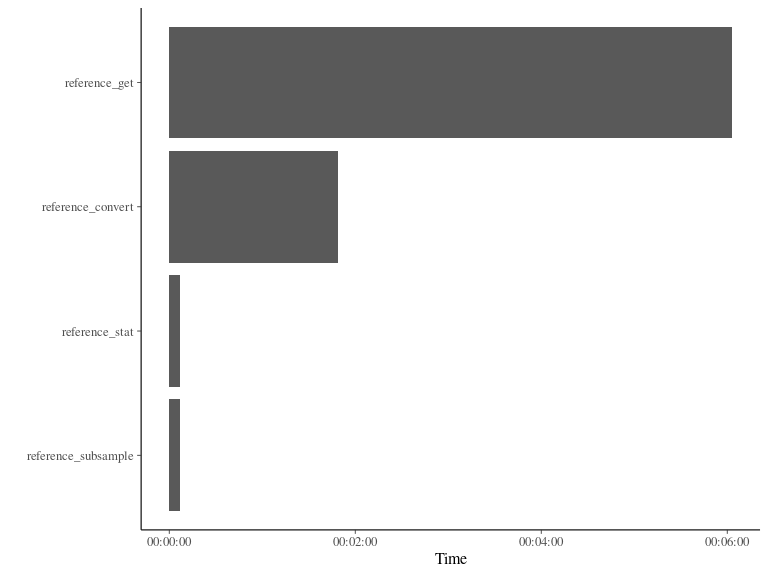
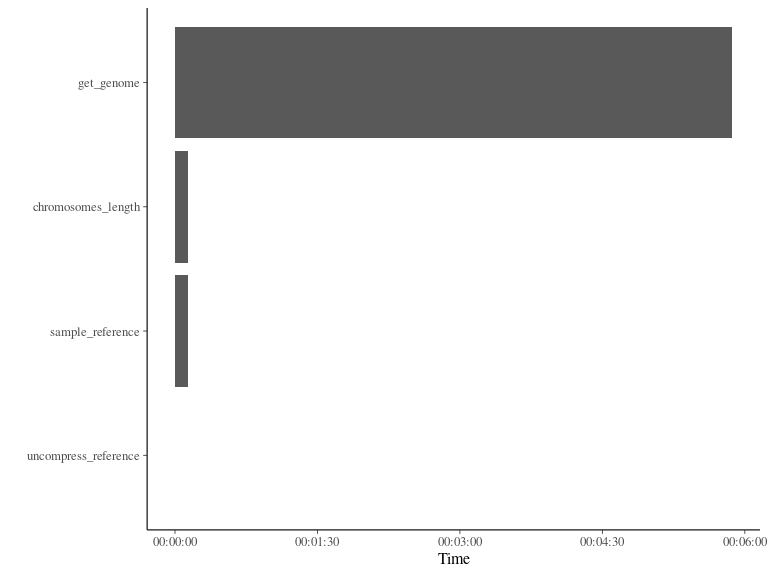
# generateMutation 0.1.9003 * renaming rules * config/genologin.yaml * uncompress reference * generate reads

diff --git a/README.md b/README.md
@@ -4,18 +4,21 @@ Sylvain Schmitt
 April 20, 2021
 
   - [Summary](#summary)
-  - [References](#references)
-      - [Get](#get)
-      - [Statistics](#statistics)
-      - [Convert](#convert)
-      - [Index](#index)
-      - [Subsample](#subsample)
+  - [Data](#data)
+      - [Get genome](#get-genome)
+      - [Chromosmes length](#chromosmes-length)
+      - [Sample reference](#sample-reference)
+  - [Reads](#reads)
+      - [Uncompress reference](#uncompress-reference)
+      - [Generate reads](#generate-reads)
+  - [Mutations](#mutations)
+      - [Generate mutations](#generate-mutations)
   - [All](#all)
       - [Commands](#commands)
       - [DAG](#dag)
       - [Benchamrk](#benchamrk)
   - [Resources](#resources)
-  - [References](#references-1)
+  - [References](#references)
 
 Development of a [`singularity` &
 `snakemake`](https://github.com/sylvainschmitt/snakemake_singularity)
@@ -23,19 +26,38 @@ workflow to generate *in silico* mutations.
 
 # Summary
 
-# References
+# Data
 
-## Get
+## Get genome
 
-## Statistics
+From <https://urgi.versailles.inra.fr/download/oak/Qrob_PM1N.fa.gz>.
+
+## Chromosmes length
+
+Using `bioawk`.
 
 ![](README_files/figure-gfm/refStats-1.png)<!-- -->
 
-## Convert
+## Sample reference
 
-## Index
+Using `seqkit`.
 
-## Subsample
+# Reads
+
+## Uncompress reference
+
+For `insilicoseq` using temporary file.
+
+## Generate reads
+
+Using `insilicoseq`.
+[Help](https://insilicoseq.readthedocs.io/en/latest/iss/generate.html#full-list-of-options).
+
+# Mutations
+
+## Generate mutations
+
+Using `SomaticSpike`.
 
 # All
 
@@ -58,10 +80,13 @@ snakemake --report results/report.html
 
 # Resources
 
-  - [TreeMutation pages](https://treemutation.netlify.app/)
+  - [TreeMutation
+    pages](https://treemutation.netlify.app/mutations-detection.html#in-silico-mutations)
   - [genologin skanemake
     template](https://forgemia.inra.fr/bios4biol/workflows/-/tree/06c6a5cb3206a594f9a535ba8d3df3e64682a8bc/Snakemake/template_dev)
   - [Oak genome A4
     snakemake](https://forgemia.inra.fr/genome_a4/genome_a4)
+  - [singularity images from
+    forgemia](https://forgemia.inra.fr/gafl/singularity)
 
 # References

diff --git a/NEWS.md b/NEWS.md
@@ -1,6 +1,12 @@
+# generateMutation 0.1.9003
+* renaming rules
+* config/genologin.yaml
+* uncompress reference
+* generate reads
+
 # generateMutation 0.1.9002
 * reorganize
-* prepare netlogin test
+* prepare genologin test
 
 # generateMutation 0.1.9001
 * subsample
